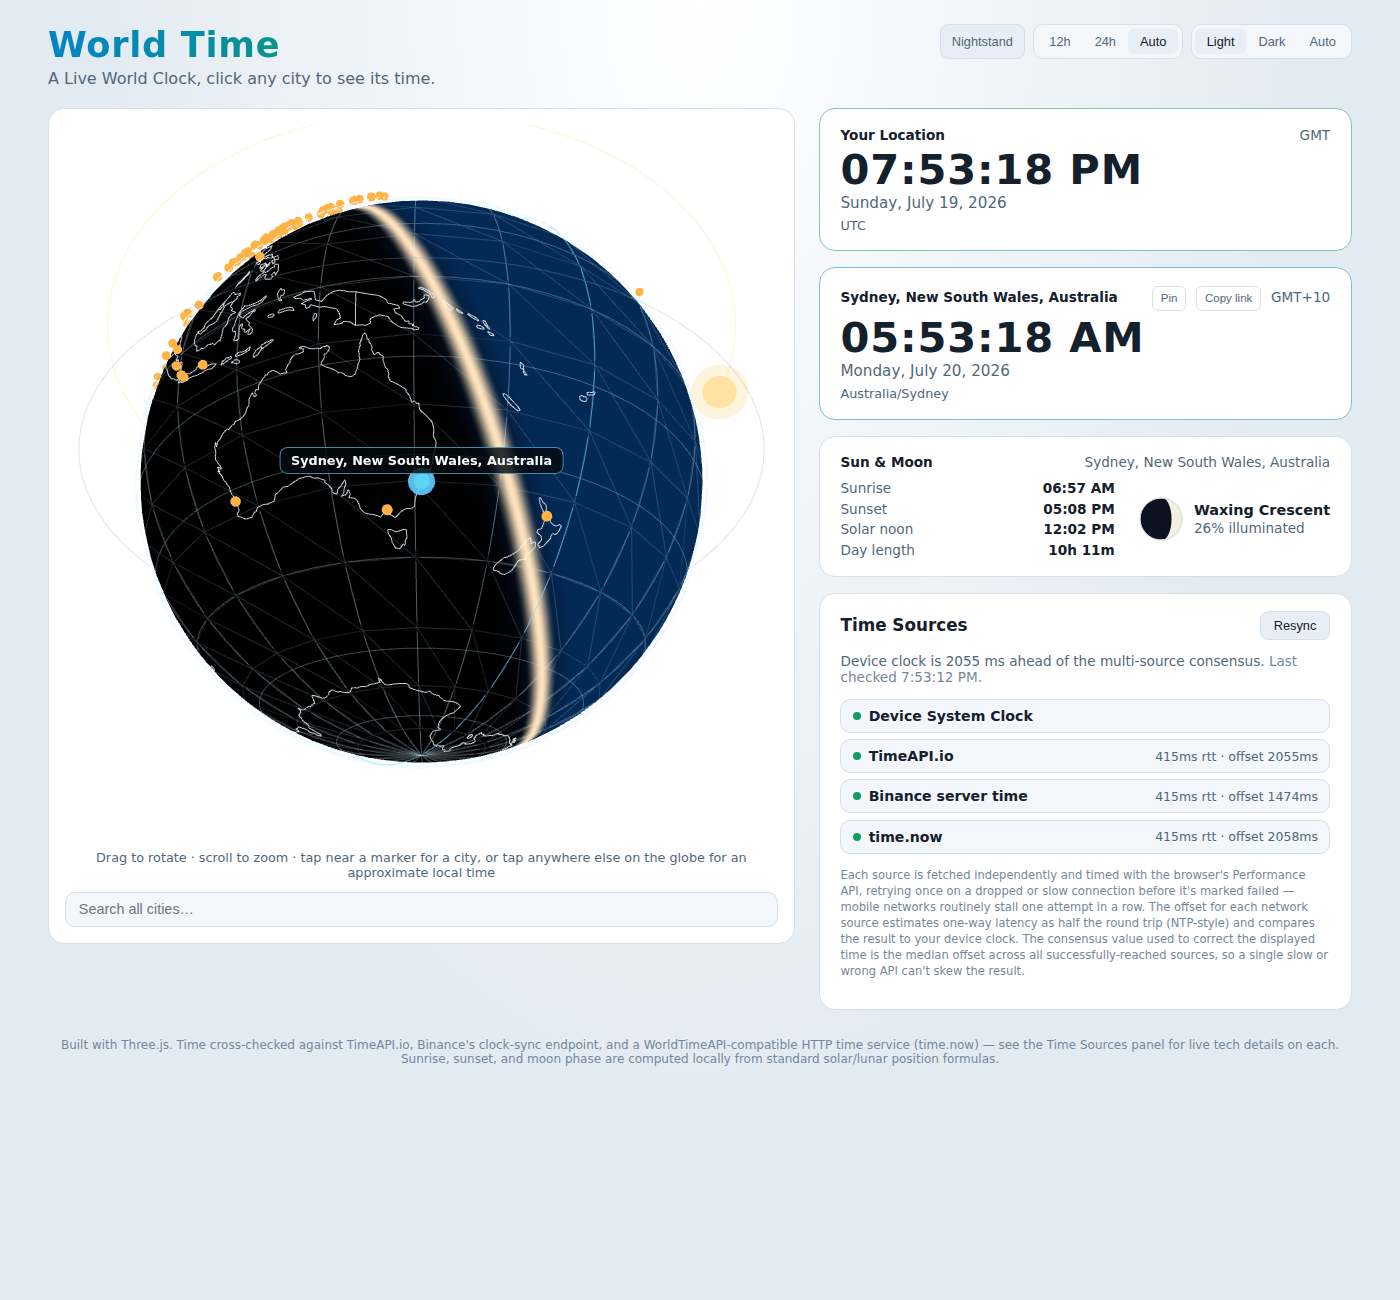
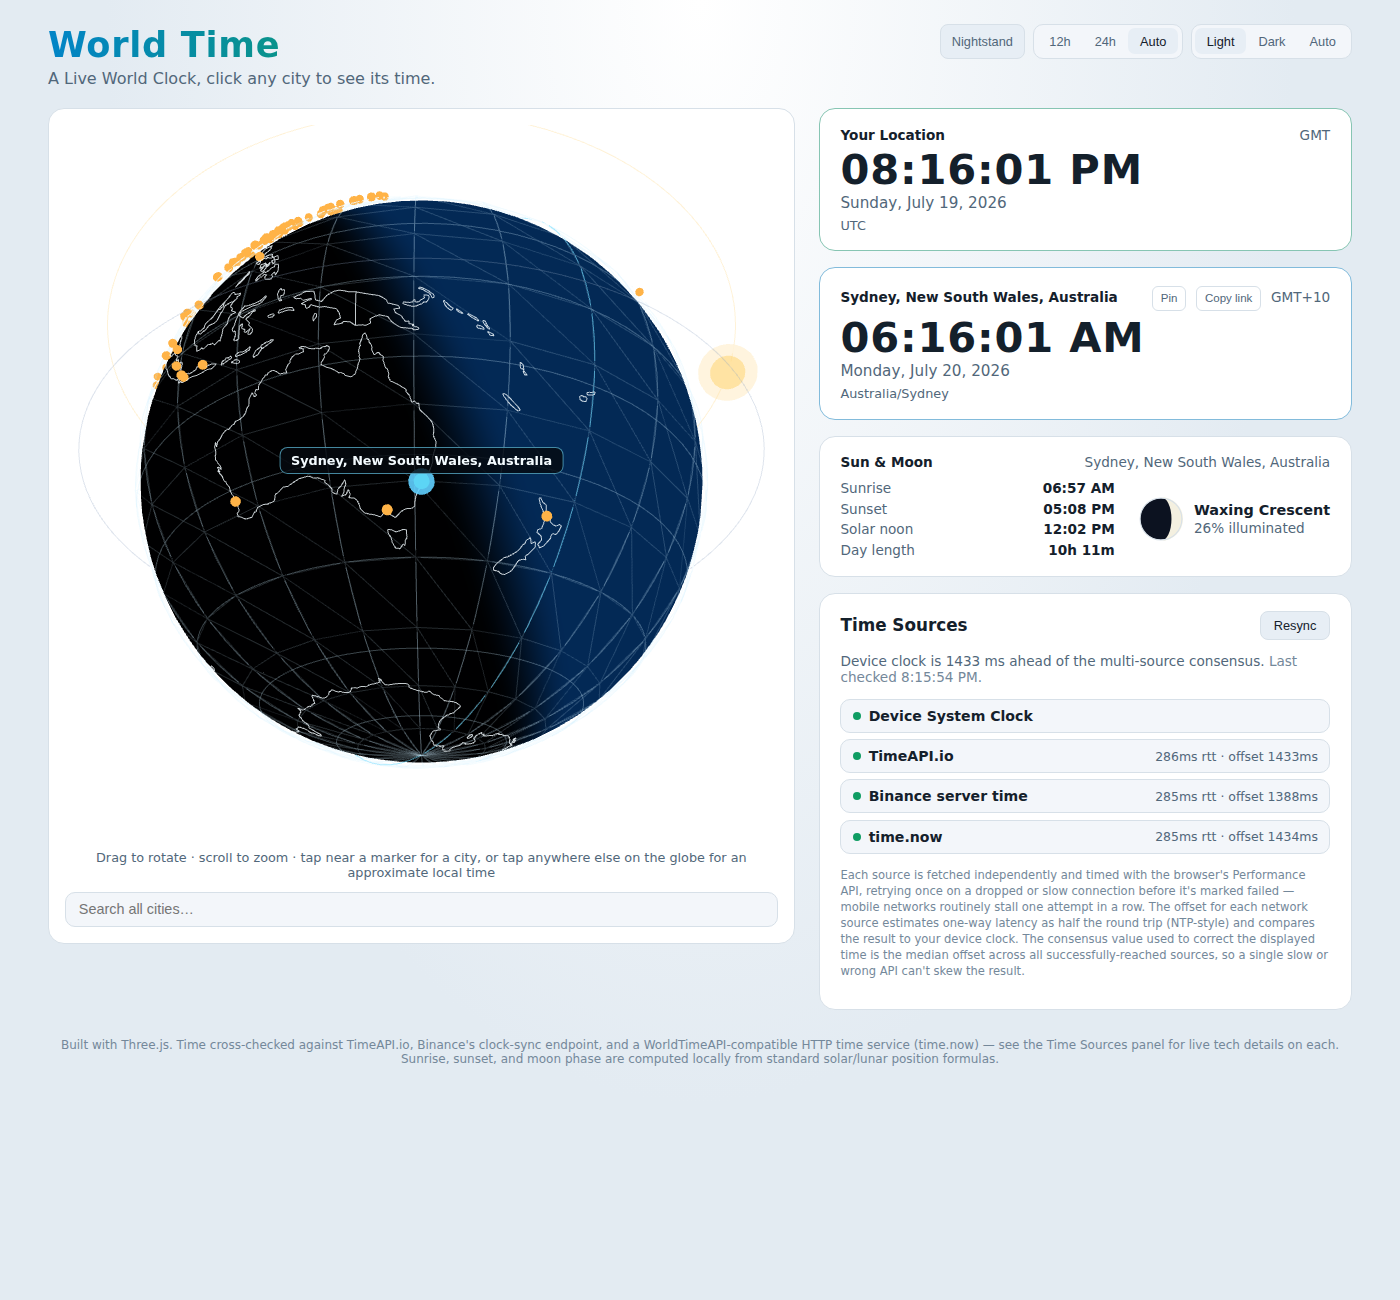
Fade day blue directly into night black, drop terminator highlight line
The warm lineColor highlight at the terminator crossover was reading as
an odd golden band rather than a clean fade. Removed it so dayColor
blends straight into nightColor via the existing smoothstep gradient.

diff --git a/src/components/Globe.tsx b/src/components/Globe.tsx
@@ -175,7 +175,6 @@ export default function Globe({
         sunDirection: sunDirUniform,
         dayColor: { value: new THREE.Color(0x1c6f9c) },
         nightColor: { value: new THREE.Color(0x020610) },
-        lineColor: { value: new THREE.Color(0xfff2df) },
       },
       vertexShader: `
         varying vec3 vWorldNormal;
@@ -188,14 +187,11 @@ export default function Globe({
         uniform vec3 sunDirection;
         uniform vec3 dayColor;
         uniform vec3 nightColor;
-        uniform vec3 lineColor;
         varying vec3 vWorldNormal;
         void main() {
           float intensity = dot(normalize(vWorldNormal), normalize(sunDirection));
           float dayMix = smoothstep(-0.12, 0.12, intensity);
           vec3 base = mix(nightColor, dayColor, dayMix);
-          float line = 1.0 - smoothstep(0.0, 0.05, abs(intensity));
-          base = mix(base, lineColor, line);
           gl_FragColor = vec4(base, 1.0);
         }
       `,

diff --git a/README.md b/README.md
@@ -98,6 +98,7 @@ Pushing to `main` automatically builds and deploys to GitHub Pages via `.github/
 ### 2026-07-19
 
 - Softened the day/night terminator into a graduated gradient (it was previously a very sharp line) and moved the globe's default resting camera position a little further out. Refreshed all the screenshots below to match the current app (sun/moon markers, softer terminator, updated Time Sources lineup).
+- Removed the warm highlight band at the terminator crossover — it was reading as an odd golden line instead of a clean fade, so the day-blue now blends directly into the night-black. Refreshed the hero screenshots again to match.
 - Bumped to `versionCode 3` / `versionName "1.2"`, ready for a `v1.2` tag.
 - Added live sun and moon markers orbiting the globe, each with a thin ring tracing its current path — real position math (right ascension/declination via Greenwich Mean Sidereal Time, with a Meeus low-precision lunar position series for the moon), not a decorative approximation. Also upgraded the day/night terminator's own subsolar-point calculation to the same rigor (previously a cruder day-of-year approximation), correcting it by the equation of time.
 - Tapping the sun or moon marker now shows a name label, tracking the marker's own position as it moves. Also made both markers a little bigger and moved them a bit further out from the globe surface.